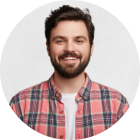
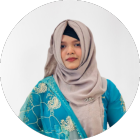
5th

diff --git a/index.html b/index.html
@@ -424,7 +424,7 @@
                                 <img src="./images/member1.png" alt="Shoes" class="rounded-xl" />
                             </figure>
                             <div class="card-body items-center text-center">
-                                <h2 class="card-title">Awlad Hossin</h2>
+                                <h2 class="card-title">Sadia Afrin</h2>
                                 <p>Fruits Expert</p>
                                 <div class="card-actions mt-5">
                                     <i class="fa-brands fa-facebook"></i><i class="fa-brands fa-twitter mx-5"></i><i
@@ -434,10 +434,10 @@
                         </div>
                         <div class="card ">
                             <figure class="px-10 pt-10">
-                                <img src="./images/member4.png" alt="Shoes" class="rounded-xl" />
+                                <img src="./images/member2.png" alt="Shoes" class="rounded-xl" />
                             </figure>
                             <div class="card-body items-center text-center">
-                                <h2 class="card-title">Safia Chowdory</h2>
+                                <h2 class="card-title">Syed Tanvir Hossain</h2>
                                 <p>Fruits Expert</p>
                                 <div class="card-actions mt-2">
                                     <i class="fa-brands fa-facebook"></i><i class="fa-brands fa-twitter mx-5"></i><i
@@ -451,7 +451,7 @@
                                 <img src="./images/member3.png" alt="Shoes" class="rounded-xl" />
                             </figure>
                             <div class="card-body items-center text-center">
-                                <h2 class="card-title">Rokib Hossain</h2>
+                                <h2 class="card-title">HM Shahriar</h2>
                                 <p>Fruits Expert</p>
                                 <div class="card-actions mt-5">
                                     <i class="fa-brands fa-facebook"></i><i class="fa-brands fa-twitter mx-5"></i><i
@@ -465,7 +465,7 @@
                                 <img src="./images/member4.png" alt="Shoes" class="rounded-xl" />
                             </figure>
                             <div class="card-body items-center text-center">
-                                <h2 class="card-title">Chaity</h2>
+                                <h2 class="card-title">Rajibul Alam</h2>
                                 <p>Fruits Expert</p>
                                 <div class="card-actions mt-5">
                                     <i class="fa-brands fa-facebook"></i><i class="fa-brands fa-twitter mx-5"></i><i
